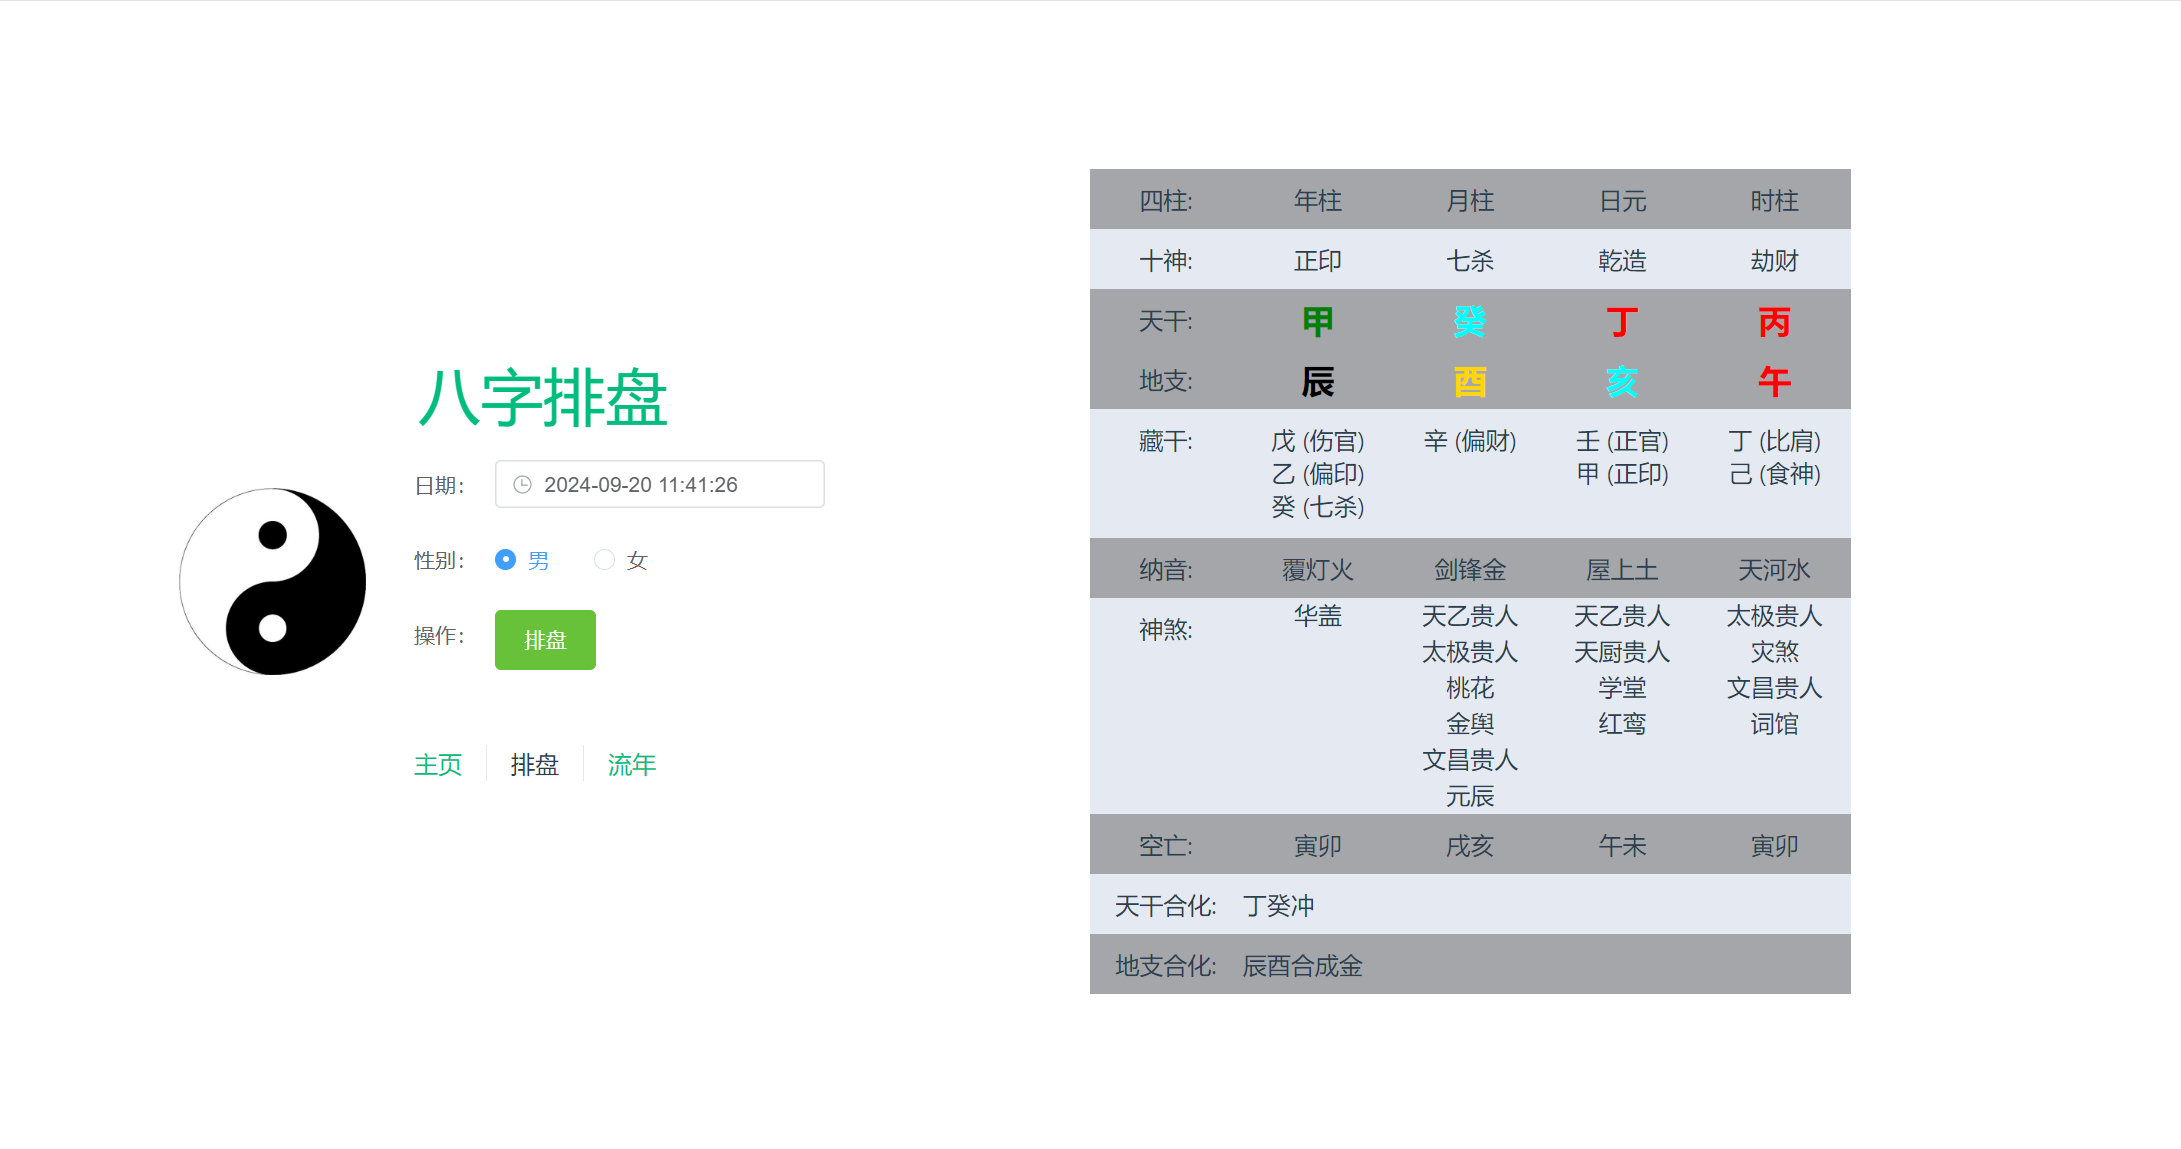
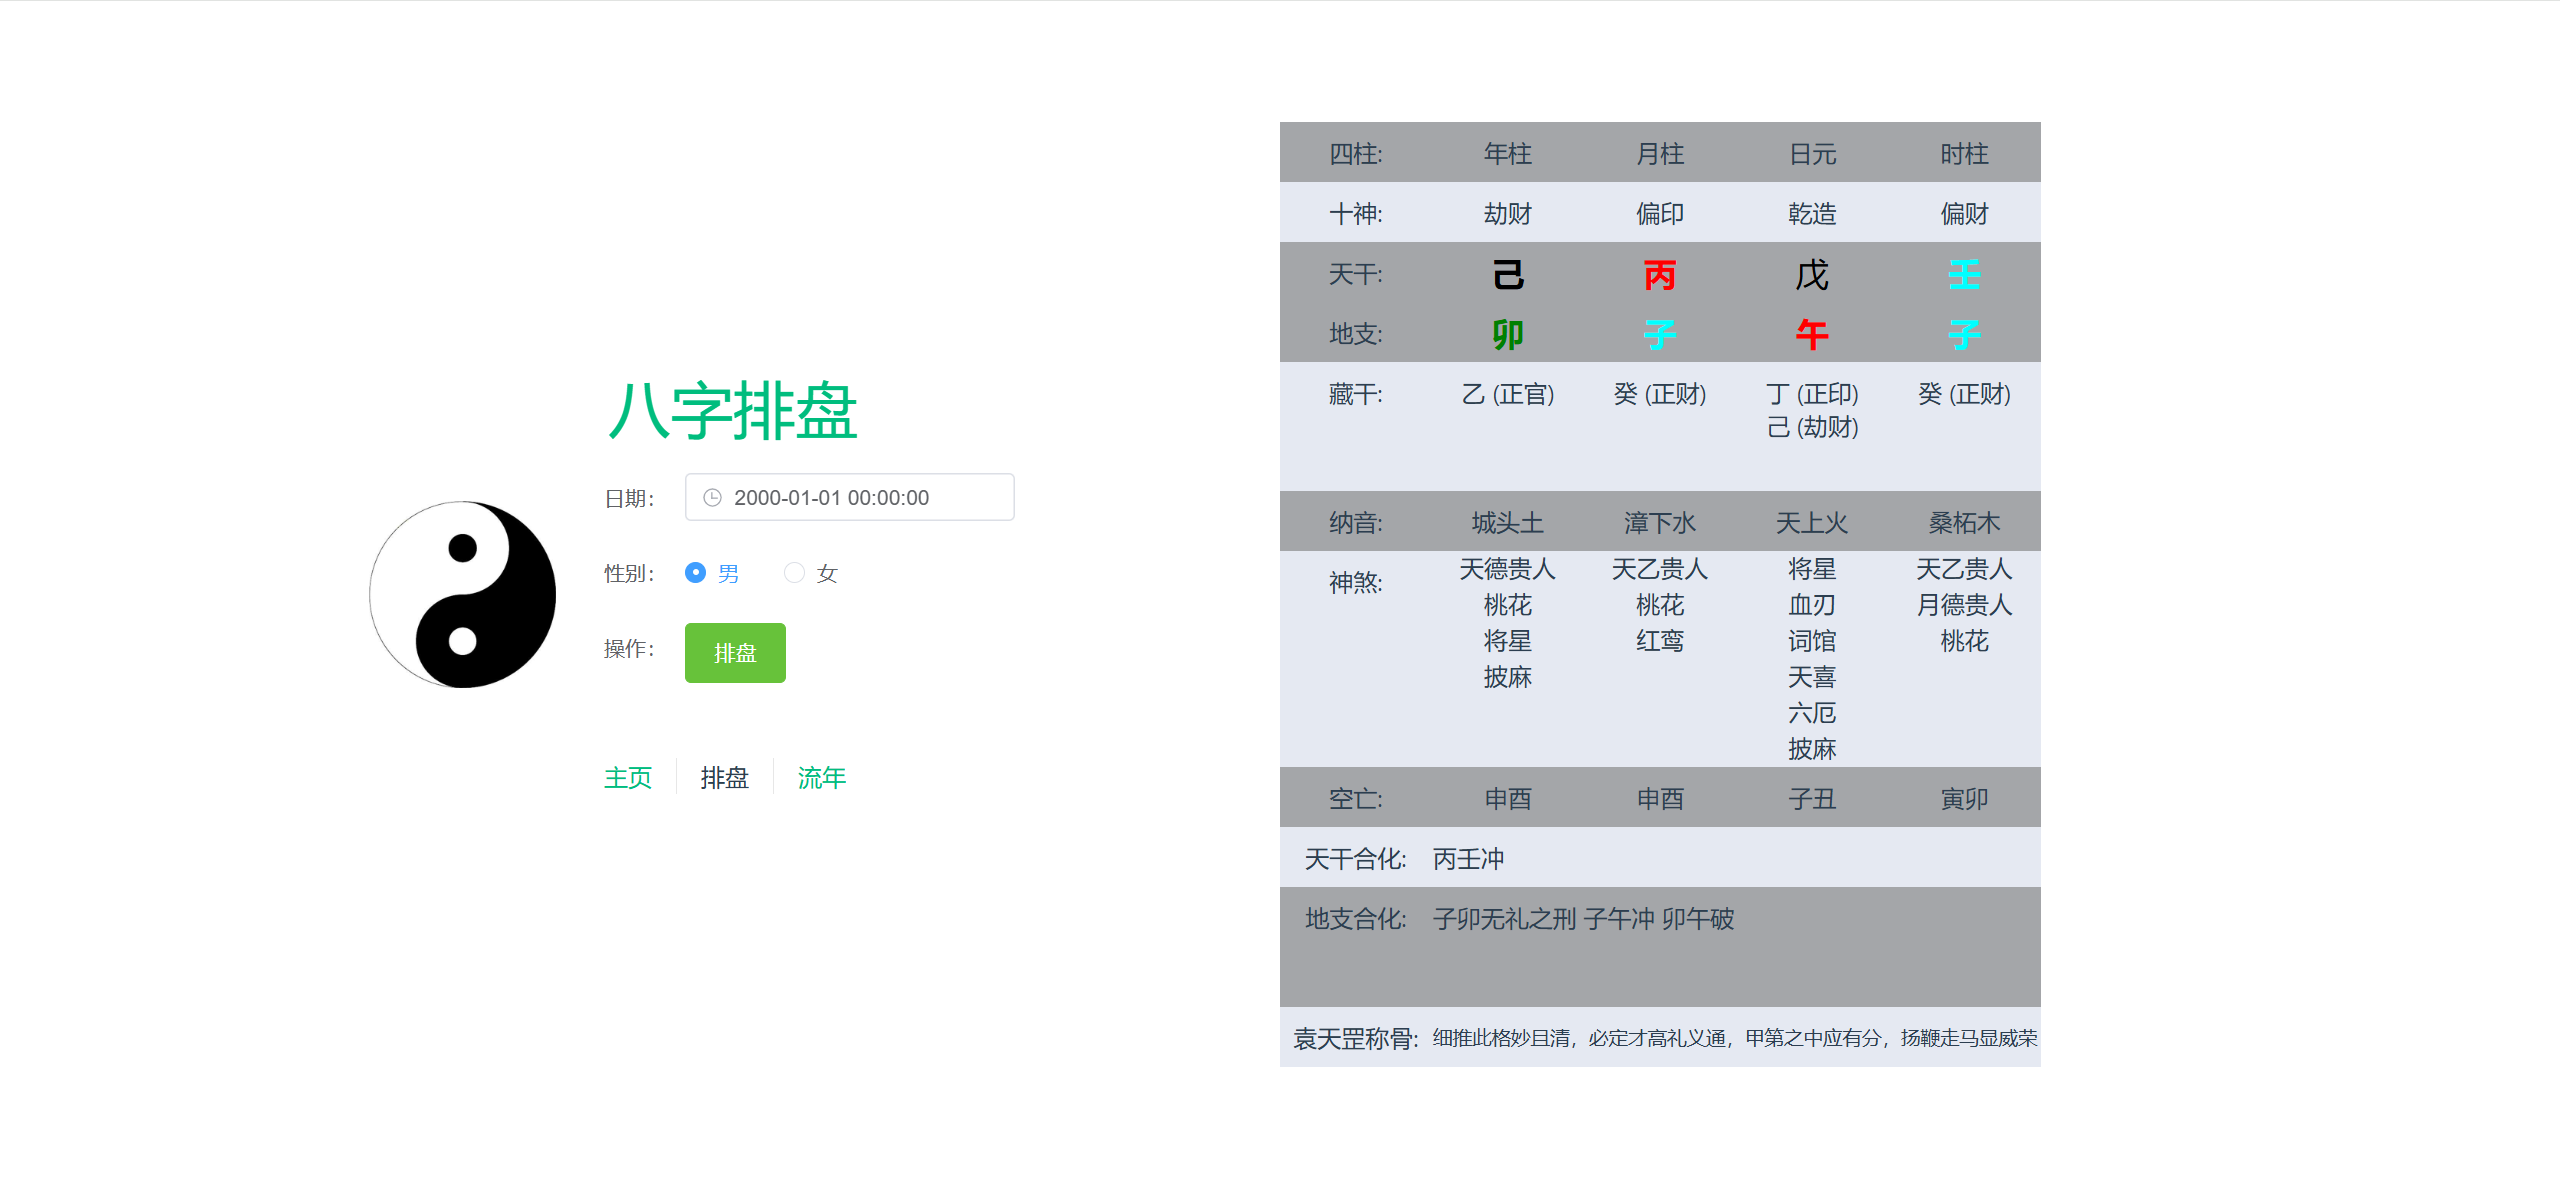
追加格局判定，格局仅从正八格中取

Changed region(s): [[0.4989, 0.0914, 0.873, 0.9138], [0.0935, 0.3046, 0.3741, 0.6092], [0.1871, 0.6397, 0.343, 0.6701]]

diff --git a/eight-front/src/views/EightTimeView.vue b/eight-front/src/views/EightTimeView.vue
@@ -156,7 +156,7 @@
     </el-row>
 
     <!--地支合化-->
-    <el-row :gutter="1">
+    <el-row :gutter="1" style="height: 80px">
       <el-col :span="4" class="zhiStatusColum"> 地支合化:</el-col>
       <el-col :span="16" class="zhiStatusColum" style="text-align: left">
         {{ eightData.zhiSyzygyStatus }}
@@ -311,6 +311,7 @@ const getFullDays = async (year: number) => {
     fullYearMonthDaysArray.value.forEach((element) => {
       if (userInfoData.month == element.month) {
         fullDays.value.length = 0
+        //@ts-ignore
         fullDays.value = [...element.days]
         return
       }
@@ -546,6 +547,23 @@ onMounted(() => {
   height: 100%;
   width: 100%;
 
+  .my-scroll::-webkit-scrollbar {
+    width: 5px;
+    height: 5px;
+  }
+
+  .my-scroll::-webkit-scrollbar-thumb {
+    border-radius: 10px;
+    -webkit-box-shadow: inset 0 0 5px rgba(0, 0, 0, 0.2);
+    background: #ccc;
+  }
+
+  .my-scroll::-webkit-scrollbar-track {
+    -webkit-box-shadow: inset 0 0 5px rgba(0, 0, 0, 0.2);
+    border-radius: 10px;
+    background: #ededed;
+  }
+
   .scrollable-container {
     width: 100%; /* 根据需要调整容器宽度 */
     overflow-x: auto; /* 当内容超出容器宽度时显示滚动条 */
@@ -628,6 +646,7 @@ onMounted(() => {
     background-color: rgb(164, 166, 169);
   }
   .zhiStatusColum {
+    word-wrap: break-word;
     background-color: rgb(229, 233, 242);
   }
 }

diff --git a/eight-front/src/views/EightGodView.vue b/eight-front/src/views/EightGodView.vue
@@ -35,6 +35,9 @@
           <template #content>
             {{ eightData.fateStart }}
             <br />
+            格局:
+            {{ eightData.structure }}格
+            <br />
             文昌位：
             {{ eightData.literature }}
             <br />姻缘桃花位:
@@ -129,7 +132,7 @@
 
     <!--地支合化-->
     <el-row :gutter="1">
-      <el-col :span="4" class="zhiStatusColum"> 地支合化:</el-col>
+      <el-col :span="4" class="zhiStatusColum" style="height: 80px"> 地支合化:</el-col>
       <el-col :span="16" class="zhiStatusColum" style="text-align: left">
         {{ eightData.zhiSyzygyStatus }}
       </el-col>
@@ -187,7 +190,8 @@ let eightData = reactive<EightGodVO>({
   zhiHiddenGanList: [],
   zhiSyzygyStatus: '',
   yuanTianGang: '',
-  fateStart: ''
+  fateStart: '',
+  structure: ''
 })
 
 // 查询菜单数据
@@ -302,7 +306,6 @@ onMounted(() => {
     background-color: rgb(229, 233, 242);
   }
   .zhiStatusColum {
-    height: 40px;
     background-color: rgb(164, 166, 169);
   }
   .yuanTianGang {

diff --git a/eight-front/src/api/eight/type.ts b/eight-front/src/api/eight/type.ts
@@ -168,6 +168,11 @@ export interface EightGodVO {
    * 袁天罡称骨
    */
   yuanTianGang: string
+
+  /**
+   * 格局
+   */
+  structure: string
   [property: string]: any
 }
 

diff --git a/src/main/java/com/divination/util/TenGodUtil.java b/src/main/java/com/divination/util/TenGodUtil.java
@@ -1,8 +1,11 @@
 package com.divination.util;
 
+import ch.qos.logback.classic.spi.EventArgUtil;
 import com.divination.domain.vo.GanFiveEnergyStatusVO;
 import com.divination.domain.vo.GanTenGodVO;
+import com.divination.domain.vo.HiddenGanVO;
 import com.divination.enums.TenGodEnum;
+import com.nlf.calendar.Lunar;
 
 import java.util.*;
 
@@ -102,4 +105,152 @@ public class TenGodUtil {
         return list;
     }
 
+
+    /**
+     * 取格局 （从正八格里取）
+     * @param lunar
+     * @return
+     */
+    public static String getTenGodStructure(Lunar lunar){
+        // 获取十神关系
+        List<GanTenGodVO> godVOList = getGanGodVOList(lunar.getDayGan());
+        Map<String, GanTenGodVO> tenGodVOMap = ListUtil.transformationByListToMapObject(godVOList, GanTenGodVO::getGan);
+
+        // 取出年干十神
+        GanTenGodVO yearGod = tenGodVOMap.get(lunar.getYearGan());
+        GanTenGodVO monthGod = tenGodVOMap.get(lunar.getMonthGan());
+        GanTenGodVO timeGod = tenGodVOMap.get(lunar.getTimeGan());
+        List<String> ganGodList = Arrays.asList(yearGod.getGod(), monthGod.getGod(), timeGod.getGod());
+
+        // 比肩劫财不入格，处理月下藏干直接透出情况
+        List<String> monthGanList = new ArrayList<>();
+        List<String> removeList = Arrays.asList(TenGodEnum.shoulderMan.getName(), TenGodEnum.robber.getName());
+        HiddenGanVO hiddenGanByZhi = GanUtil.getHiddenGanByZhi(lunar.getMonthZhi());
+        GanTenGodVO heightGod = tenGodVOMap.get(hiddenGanByZhi.getHeight());
+        if(!removeList.contains(heightGod.getGod())){
+            monthGanList.add(heightGod.getGod());
+        }
+        if(Objects.nonNull(hiddenGanByZhi.getMiddle())){
+            GanTenGodVO midGod = tenGodVOMap.get(hiddenGanByZhi.getMiddle());
+            if(!removeList.contains(midGod.getGod())){
+                monthGanList.add(midGod.getGod());
+            }
+        }
+        if(Objects.nonNull(hiddenGanByZhi.getLow())){
+            GanTenGodVO lowGod = tenGodVOMap.get(hiddenGanByZhi.getLow());
+            if(!removeList.contains(lowGod.getGod())){
+                monthGanList.add(lowGod.getGod());
+            }
+        }
+        for (String g : monthGanList) {
+            // 月下藏干在天干透出，直接成格
+            if(ganGodList.contains(g)){
+                return g;
+            }
+        }
+
+        // 没有直接透出，计算除了比肩劫财外能量最大的一个
+        Integer yearNum = 0;
+        Integer monthNum = 0;
+        Integer timeNum = 0;
+        HiddenGanVO hiddenGanByYear = GanUtil.getHiddenGanByZhi(lunar.getYearZhi());
+        HiddenGanVO hiddenGanByDay = GanUtil.getHiddenGanByZhi(lunar.getDayZhi());
+        HiddenGanVO hiddenGanByTime = GanUtil.getHiddenGanByZhi(lunar.getTimeZhi());
+        // 找出天干和月令得分
+        if(removeList.contains(yearGod.getGod())){
+            yearNum = -999;
+        }else{
+            yearNum += FiveEnergyUtil.getEnergyScore(lunar,lunar.getYearGan());
+            yearNum = handleSocreByHiddenGan(hiddenGanByYear, hiddenGanByDay, hiddenGanByTime, yearGod , yearNum, tenGodVOMap);
+        }
+        if(removeList.contains(monthGod.getGod())){
+            monthNum = -999;
+        }else{
+            monthNum += FiveEnergyUtil.getEnergyScore(lunar,lunar.getMonthGan());
+            monthNum = handleSocreByHiddenGan(hiddenGanByYear, hiddenGanByDay, hiddenGanByTime, monthGod , monthNum, tenGodVOMap);
+        }
+        if(removeList.contains(timeGod.getGod())){
+            timeNum = -999;
+        }else{
+            timeNum += FiveEnergyUtil.getEnergyScore(lunar,lunar.getTimeGan());
+            timeNum = handleSocreByHiddenGan(hiddenGanByYear, hiddenGanByDay, hiddenGanByTime, timeGod , timeNum, tenGodVOMap);
+        }
+
+        // 取出
+        if(yearNum > monthNum && yearNum > timeNum){
+            return yearGod.getGod();
+        }
+       else if(monthNum > yearNum && monthNum > timeNum){
+            return monthGod.getGod();
+        }
+        else if(timeNum > yearNum && timeNum > monthNum){
+            return timeGod.getGod();
+        }
+        // 存在相等情况，以年为大
+        return yearGod.getGod();
+
+    }
+
+    private static Integer handleSocreByHiddenGan(HiddenGanVO hiddenGanByYear,HiddenGanVO hiddenGanByDay,HiddenGanVO hiddenGanByTime,
+                                        GanTenGodVO yearGod ,Integer num,
+                                        Map<String, GanTenGodVO> tenGodVOMap ){
+        // 计算十神在地支下的强度，本气+8 中气+5  余气+2
+
+        // 处理年
+        GanTenGodVO tenGodVO = tenGodVOMap.get(hiddenGanByYear.getHeight());
+        if(tenGodVO.getGod().equals(yearGod.getGod())){
+            num+=8;
+        }
+        if(Objects.nonNull(hiddenGanByYear.getMiddle())){
+            GanTenGodVO mGodVO = tenGodVOMap.get(hiddenGanByYear.getMiddle());
+            if(mGodVO.getGod().equals(yearGod.getGod())){
+                num+=5;
+            }
+        }
+        if(Objects.nonNull(hiddenGanByYear.getLow())){
+            GanTenGodVO tGodVO = tenGodVOMap.get(hiddenGanByYear.getLow());
+            if(tGodVO.getGod().equals(yearGod.getGod())){
+                num+=2;
+            }
+        }
+
+        // 处理日
+        GanTenGodVO dayGodVO = tenGodVOMap.get(hiddenGanByDay.getHeight());
+        if(dayGodVO.getGod().equals(yearGod.getGod())){
+            num+=8;
+        }
+        if(Objects.nonNull(hiddenGanByDay.getMiddle())){
+            GanTenGodVO mGodVO = tenGodVOMap.get(hiddenGanByDay.getMiddle());
+            if(mGodVO.getGod().equals(yearGod.getGod())){
+                num+=5;
+            }
+        }
+        if(Objects.nonNull(hiddenGanByDay.getLow())){
+            GanTenGodVO tGodVO = tenGodVOMap.get(hiddenGanByDay.getLow());
+            if(tGodVO.getGod().equals(yearGod.getGod())){
+                num+=2;
+            }
+        }
+
+        // 处理时
+        GanTenGodVO timeGodVO = tenGodVOMap.get(hiddenGanByTime.getHeight());
+        if(timeGodVO.getGod().equals(yearGod.getGod())){
+            num+=8;
+        }
+        if(Objects.nonNull(hiddenGanByTime.getMiddle())){
+            GanTenGodVO mGodVO = tenGodVOMap.get(hiddenGanByTime.getMiddle());
+            if(mGodVO.getGod().equals(yearGod.getGod())){
+                num+=5;
+            }
+        }
+        if(Objects.nonNull(hiddenGanByTime.getLow())){
+            GanTenGodVO tGodVO = tenGodVOMap.get(hiddenGanByTime.getLow());
+            if(tGodVO.getGod().equals(yearGod.getGod())){
+                num+=2;
+            }
+        }
+
+        return num;
+
+    }
 }

diff --git a/src/main/java/com/divination/util/FiveEnergyUtil.java b/src/main/java/com/divination/util/FiveEnergyUtil.java
@@ -207,4 +207,84 @@ public class FiveEnergyUtil {
 
         return 0;
     }
+
+    /**
+     * 获取五行旺相休囚死状态
+     * @param energy    目标五行
+     * @param lord      坐标系五行
+     * @return
+     */
+    public static String getProsperityAndDecline(String energy,String lord){
+        // 获取参照系的五行关系
+        Map<String, String> statusByThisEnergy = getEnergyStatusByThisEnergy(lord);
+        if(statusByThisEnergy.get("同我").equals(energy)){
+            return "旺";
+        }else if(statusByThisEnergy.get("我生").equals(energy)){
+            return "相";
+        }
+        else if(statusByThisEnergy.get("生我").equals(energy)){
+            return "休";
+        }
+        else if(statusByThisEnergy.get("克我").equals(energy)){
+            return "囚";
+        }else{
+            return "死";
+        }
+    }
+
+    /**
+     * 获取该天干的五行在命局中的得分
+     * @param lunar
+     * @param gan   目标天干
+     * @return
+     */
+    public static Integer getEnergyScore(Lunar lunar,String gan){
+        Integer score = 0;
+        // 得令加40分。月干日干得令加12分，其他加8分
+
+        // 获取对应天干的五行
+        String fiveEnergyByGan = getFiveEnergyByGan(gan);
+        String fiveEnergyByMonth = getFiveEnergyByZhi(lunar.getMonthZhi());
+        String prosperityAndDecline = getProsperityAndDecline(fiveEnergyByGan, fiveEnergyByMonth);
+        if(prosperityAndDecline.equals("旺") || prosperityAndDecline.equals("相")){
+            score+=40;
+        }else{
+            score-=40;
+        }
+
+        // 分别计算其他天干
+        String yearGan = lunar.getYearGan();
+        String monthGan = lunar.getMonthGan();
+        String dayGan = lunar.getDayGan();
+        String timeGan = lunar.getTimeGan();
+        String yearGanStatus = getProsperityAndDecline(fiveEnergyByGan, getFiveEnergyByGan(yearGan));
+        if(yearGanStatus.equals("旺") || yearGanStatus.equals("相")){
+            score+=8;
+        }else{
+            score-=8;
+        }
+
+        String mGanStatus = getProsperityAndDecline(fiveEnergyByGan, getFiveEnergyByGan(monthGan));
+        if(mGanStatus.equals("旺") || mGanStatus.equals("相")){
+            score+=12;
+        }else{
+            score-=12;
+        }
+
+        String dGanStatus = getProsperityAndDecline(fiveEnergyByGan, getFiveEnergyByGan(dayGan));
+        if(dGanStatus.equals("旺") || dGanStatus.equals("相")){
+            score+=12;
+        }else{
+            score-=12;
+        }
+
+        String tGanStatus = getProsperityAndDecline(fiveEnergyByGan, getFiveEnergyByGan(timeGan));
+        if(tGanStatus.equals("旺") || tGanStatus.equals("相")){
+            score+=8;
+        }else{
+            score-=8;
+        }
+
+        return score;
+    }
 }

diff --git a/src/main/java/com/divination/service/impl/EightGodServiceImpl.java b/src/main/java/com/divination/service/impl/EightGodServiceImpl.java
@@ -90,7 +90,7 @@ public class EightGodServiceImpl implements EightGodService {
         fallList.add(GanUtil.getFall(godVO.getTimeGan() + godVO.getTimeZhi()));
         godVO.setFallList(fallList);
 
-        // 8 取桃花位 和 文昌位 和 袁天罡称骨口诀 和起运时间
+        // 8 取桃花位 和 文昌位 和 袁天罡称骨口诀 和起运时间 和格局
         godVO.setLoveInHome(LoveUtil.getLove(godVO.getDayZhi()));
         godVO.setLoveInSociety(LoveUtil.getLove(godVO.getYearZhi()));
         godVO.setLiterature(GodInLiteratureUtil.getGodInLiterature(godVO.getDayGan()) + "," + GodInLiteratureUtil.getGodInLiterature(godVO.getYearGan()));
@@ -109,6 +109,7 @@ public class EightGodServiceImpl implements EightGodService {
         }
         fateStart.append("后起大运");
         godVO.setFateStart(fateStart.toString());
+        godVO.setStructure(TenGodUtil.getTenGodStructure(lunar));
 
         jsonResult.buildTrue();
         jsonResult.setData(godVO);

diff --git a/src/main/java/com/divination/util/LuckyTimeUtil.java b/src/main/java/com/divination/util/LuckyTimeUtil.java
@@ -68,9 +68,7 @@ public class LuckyTimeUtil {
         if(monthNum!=0){
             beginLuckDate =  DateUtil.offsetMonth(beginLuckDate,monthNum);
         }
-//        if(betweenHour!=0){
-//            beginLuckDate =  DateUtil.offsetMonth(beginLuckDate,monthNum);
-//        }
+
         Integer beginLuckyYear = DateUtil.year(beginLuckDate);
         Integer beginLuckyYearEnd = beginLuckyYear+10;
 

diff --git a/src/main/java/com/divination/domain/vo/EightGodVO.java b/src/main/java/com/divination/domain/vo/EightGodVO.java
@@ -160,4 +160,9 @@ public class EightGodVO {
      */
     private String fateStart;
 
+    /**
+     * 格局
+     */
+    private String structure;
+
 }
